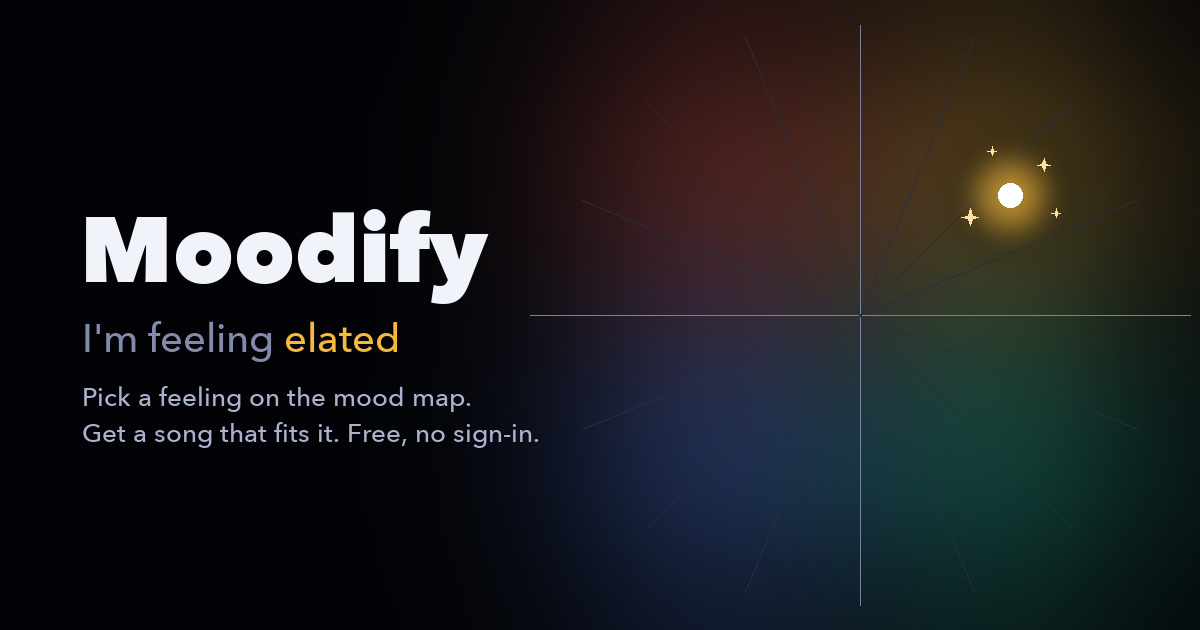
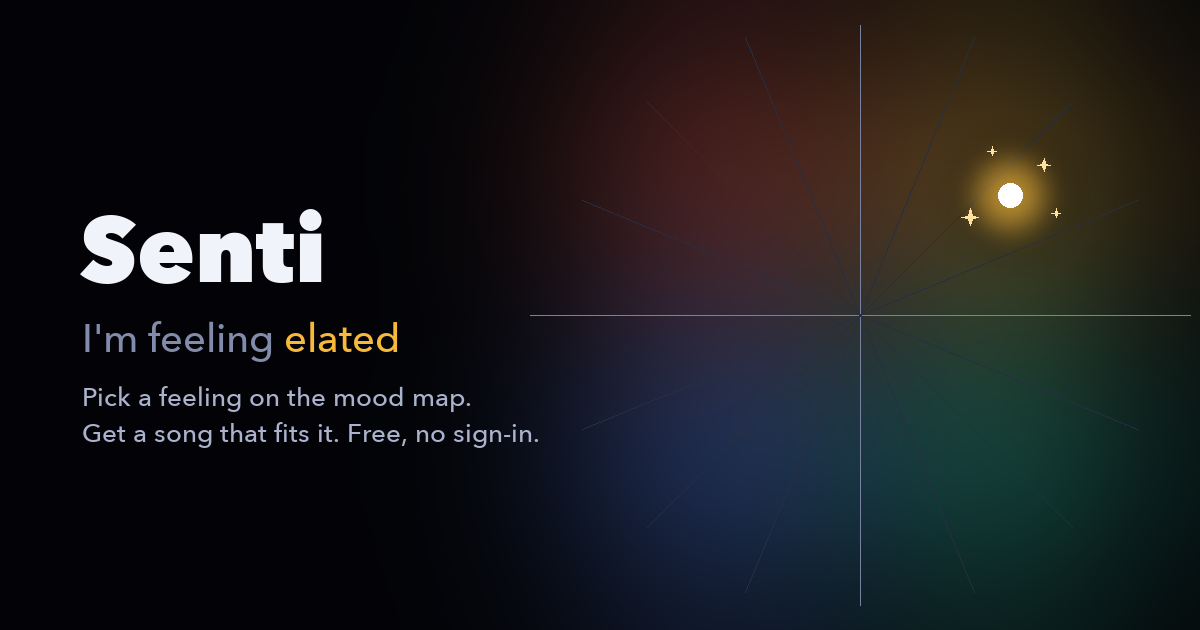
Rebrand the site as Senti; share text leads with how you feel
The wordmark, page title, link-preview tags and image, share buttons and the
classic view's masthead now say Senti; the README notes the old name. Sharing a
song now sends:

  I’m feeling elated 🥳
  🎵 <song> by <artist>

  Find a song for how you feel on Senti:
  <link>

Browser storage keys and database keys keep their old names so existing
visitors' votes and IDs carry over.

Changed region(s): [[0.0617, 0.3317, 0.4008, 0.4825]]

diff --git a/src/minimal/Minimal.tsx b/src/minimal/Minimal.tsx
@@ -210,14 +210,15 @@ export default function Minimal() {
   const flash = (msg: string) => { setShareNote(msg); setTimeout(() => setShareNote(null), 2200); };
   const shareSong = async () => {
     if (!pick) return;
-    const e = sectionOf(pick.song).toLowerCase();
-    const r = await share({ title: "Moodify", url: songLink(pick.song),
-      text: `I’m feeling ${e}: ${pick.song.title} by ${pick.song.artist}, found on Moodify` });
+    const e = emotionAt(pick.song.valence, pick.song.arousal);
+    const feeling = `I’m feeling ${(e?.name ?? "Mixed").toLowerCase()} ${e?.emoji ?? MIXED_EMOJI}`;
+    const r = await share({ title: "Senti", url: songLink(pick.song),
+      text: `${feeling}\n🎵 ${pick.song.title} by ${pick.song.artist}\n\nFind a song for how you feel on Senti:` });
     if (r === "copied") flash("Link copied");
   };
   const shareSite = async () => {
-    const r = await share({ title: "Moodify", url: window.location.origin,
-      text: "Moodify: pick a feeling, get a song that fits it." });
+    const r = await share({ title: "Senti", url: window.location.origin,
+      text: "Senti: pick a feeling, get a song that fits it." });
     if (r === "copied") flash("Link copied");
   };
 
@@ -322,8 +323,8 @@ export default function Minimal() {
   return (
     <div className="minimal" style={{ "--glow": color } as React.CSSProperties}>
       <header className="banner">
-        <span className="brand" translate="no"><span className="brand-dot" aria-hidden="true" />Moodify</span>
-        <nav aria-label="About Moodify">
+        <span className="brand" translate="no"><span className="brand-dot" aria-hidden="true" />Senti</span>
+        <nav aria-label="About Senti">
           <div className="banner-links">
             {LINKS.map((l) => (
               <a key={l.label} href={l.href} {...(l.href.startsWith("http") ? { target: "_blank", rel: "noreferrer" } : {})}>{l.label}</a>
@@ -337,7 +338,7 @@ export default function Minimal() {
               ))}
             </div>
           </details>
-          <button type="button" className="banner-share" onClick={shareSite}>Share<span className="wide-only"> Moodify</span></button>
+          <button type="button" className="banner-share" onClick={shareSite}>Share<span className="wide-only"> Senti</span></button>
         </nav>
       </header>
 

diff --git a/index.html b/index.html
@@ -3,11 +3,11 @@
   <head>
     <meta charset="UTF-8" />
     <meta name="viewport" content="width=device-width, initial-scale=1.0, viewport-fit=cover" />
-    <title>Moodify</title>
+    <title>Senti</title>
     <meta name="description" content="Pick a feeling on the mood map and get a song that fits it. Free, no sign-in." />
     <meta property="og:type" content="website" />
-    <meta property="og:site_name" content="Moodify" />
-    <meta property="og:title" content="Moodify: find a song for how you feel" />
+    <meta property="og:site_name" content="Senti" />
+    <meta property="og:title" content="Senti: find a song for how you feel" />
     <meta property="og:description" content="Pick a feeling on the mood map and get a song that fits it. Free, no sign-in." />
     <meta property="og:image" content="https://moodify-navy-three.vercel.app/og.png" />
     <meta property="og:image:width" content="1200" />

diff --git a/src/share.ts b/src/share.ts
@@ -1,4 +1,4 @@
-/** Share links: ?s=<song key> opens Moodify on that song. */
+/** Share links: ?s=<song key> opens Senti on that song. */
 import { songKey } from "./feedback";
 
 export const SHARE_PARAM = "s";
@@ -25,7 +25,7 @@ export async function share(data: { title: string; text: string; url: string }):
     }
   }
   try {
-    await navigator.clipboard.writeText(`${data.text} ${data.url}`);
+    await navigator.clipboard.writeText(`${data.text}\n${data.url}`);
     return "copied";
   } catch {
     return "failed";

diff --git a/src/App.tsx b/src/App.tsx
@@ -145,7 +145,7 @@ export default function App() {
         <header className="masthead">
           <div className="wordmark">
             <span className="wordmark-glyph" aria-hidden="true" />
-            Moodify
+            Senti
           </div>
           <p className="tagline">Drag the light to a feeling. Get songs that sound like it.</p>
           <p className="explainer">

diff --git a/scripts/make_og_image.py b/scripts/make_og_image.py
@@ -45,7 +45,7 @@ def font(path, size, index=0):
 heavy = font("/System/Library/Fonts/Avenir Next.ttc", 92, 8)
 mid = font("/System/Library/Fonts/Avenir Next.ttc", 40, 5)
 small = font("/System/Library/Fonts/Avenir Next.ttc", 26, 5)
-d.text((80, 190), "Moodify", font=heavy, fill=(240, 243, 250))
+d.text((80, 190), "Senti", font=heavy, fill=(240, 243, 250))
 d.text((82, 312), "I'm feeling", font=mid, fill=(130, 140, 170))
 w = d.textlength("I'm feeling ", font=mid)
 d.text((82 + w, 312), "elated", font=mid, fill=(246, 185, 59))

diff --git a/README.md b/README.md
@@ -1,4 +1,6 @@
-# Moodify
+# Senti
+
+*Formerly Moodify. "Senti" is Italian for "you feel" or "listen", from* sentire.
 
 Drag a point around a valence/arousal mood map and get songs that match, each with a
 Spotify link. No login.
